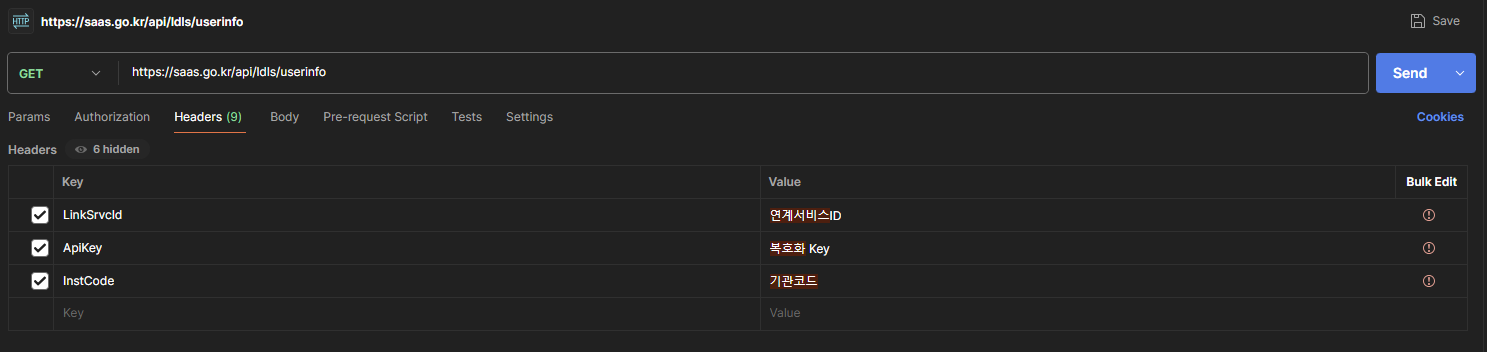
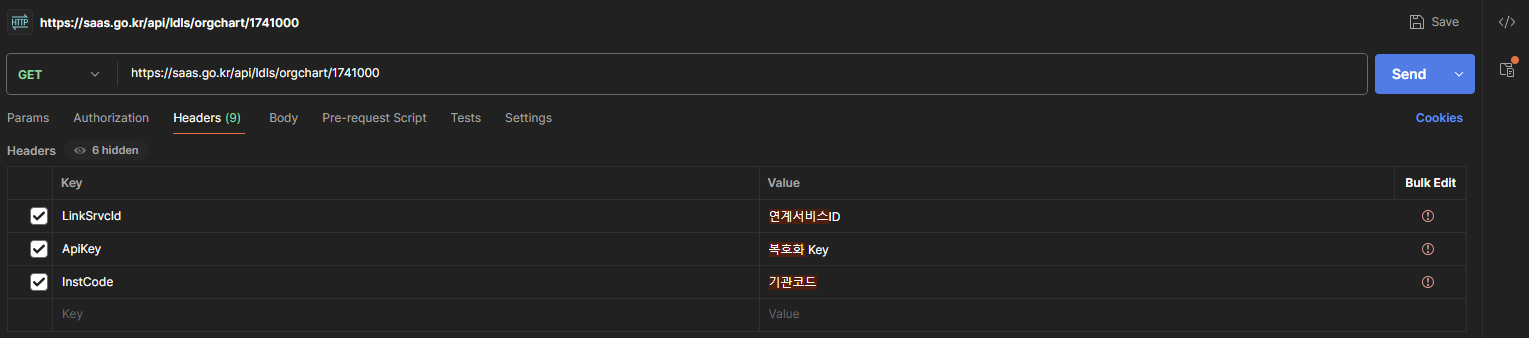
2. API 관련 내용 추가

diff --git a/2. API key 발급 및 사용.md b/2. API key 발급 및 사용.md
@@ -1,13 +1,17 @@
 # 2. API Key 발급 및 사용 가이드
-본 단계는 서비스 이용 신청 절차 이후, 진행해야 하는 절차입니다.
-
+- 본 단계는 서비스 이용 신청 절차 이후, 진행해야 하는 절차입니다.
+  - 전자정부 연계 SaaS를 사용하기 위해서는 통합관리포털에서 이용신청 승인 필요
+  - 승인 이후에는 통합관리포털에서 연계/개발 정보의 테스트 API Key, 암호화 Key 값을 조회하여, 민간 SaaS 업체에서 연계 개발 진행 후 연계 테스트를 실시
+  - 연계 테스트 이후에는 운영지원센터에 연계 테스트 완료 여부를 통보하고 정식 Key 발급 처리 승인 이후에 통합관리 포털을 통해 정식 API Key를 조회하여 실제 서비스 운영 가능
+  - 발급된 API Key로 인증된 요청에 대해서만 응답할 수 있으며, 민간 SaaS 업체 개발자는 본 가이드에 제공되는 API 사용 시 복호화된 API 키와 연계서비스 ID를 헤더에 포함하여 요청
+---
 ### (1) 연계서비스ID / API 인증키 / 암호화 키 확인
 
 
 #### - 회원가입 및 로그인 이후, 통합관리포털 상단 운영메뉴 확인
-  ![01.API%20Key%20발급.png](image/API%20Key%20발급관련/01.API%20Key%20발급.png)
+![01.API%20Key%20발급.png](image/API%20Key%20발급관련/01.API%20Key%20발급.png)
 #### - 운영메뉴 내 API 관리 메뉴 확인
-  ![02.API%20Key%20발급.png](image/API%20Key%20발급관련/02.API%20Key%20발급.png)
+![02.API%20Key%20발급.png](image/API%20Key%20발급관련/02.API%20Key%20발급.png)
 
 - 전자정부 연계 SaaS用 연계 개발 가이드 p.5의 민간 SaaS 통합 관리 포털에서 연계서비스ID, API 인증키, 암호화키 확인 필요
 - 연계서비스ID 확인 방법: 로그인 -> 우측 상단의 운영 메뉴 -> API 관리 → API 인증키 → 해당 이용 서비스의 목록 선택 후 최상단의 연계서비스ID 확인
@@ -78,13 +82,14 @@ getBytes(StandardCharsets.UTF_8)));
 ```
 
 - 복호화가 완료되면, Header의 Key와 Value에 (1), (2)에서 확인한 연계서비스 ID와 복호화키 값을 세팅
-#### 호출 예시1) 행정표준코드 (https://saas.go.kr/api/gscs/data/blood)
+### 호출 예시1) 행정표준코드 (https://saas.go.kr/api/gscs/data/blood)
 ![04.API%20Key%20발급.png](image/API%20Key%20발급관련/04.API%20Key%20발급.png)
-#### 호출 예시2) LDAP (https://saas.go.kr/api/ldls/orgchart/1741000)
+### 호출 예시2) LDAP (https://saas.go.kr/api/ldls/orgchart/1741000)
 ![05.API%20Key%20발급.png](image/API%20Key%20발급관련/05.API%20Key%20발급.png)
-#### 호출 예시3) 모바일공무원인증
+### 호출 예시3) 모바일공무원인증
+### ** 모바일공무원인증의 경우 client_id, client_secret 를 발급하며 이는 각각 통합관리포털에서 확인 가능한 연계서비스ID, API Key 값으로 간주
 ![03.API%20Key%20발급.png](image/API%20Key%20발급관련/03.API%20Key%20발급.png)
-#### ** 주의 : 각 연계서비스별로 서로 다른 연계서비스ID / API 인증키 / 암호화 키가 발급되므로 각 서비스마다 서로 다른 연계서비스ID 확인 및 복호화키 발급 과정 필요
+### ** 주의 : 각 연계서비스별로 서로 다른 연계서비스ID / API 인증키 / 암호화 키가 발급되므로 각 서비스마다 서로 다른 연계서비스ID 확인 및 복호화키 발급 과정 필요
 
 ---
 
